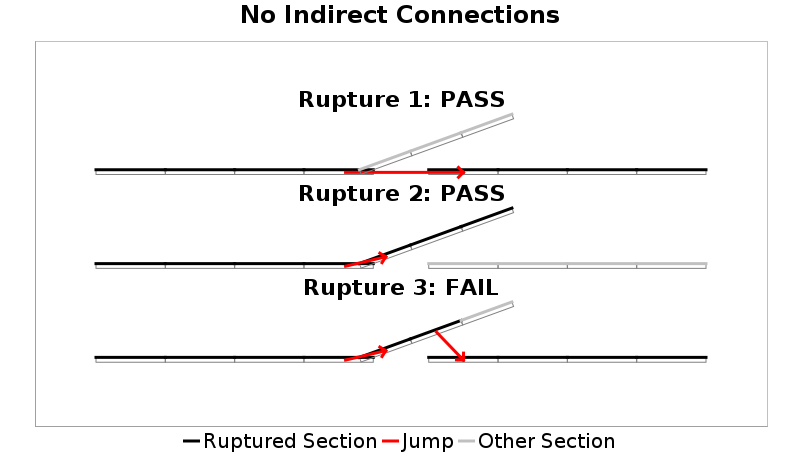
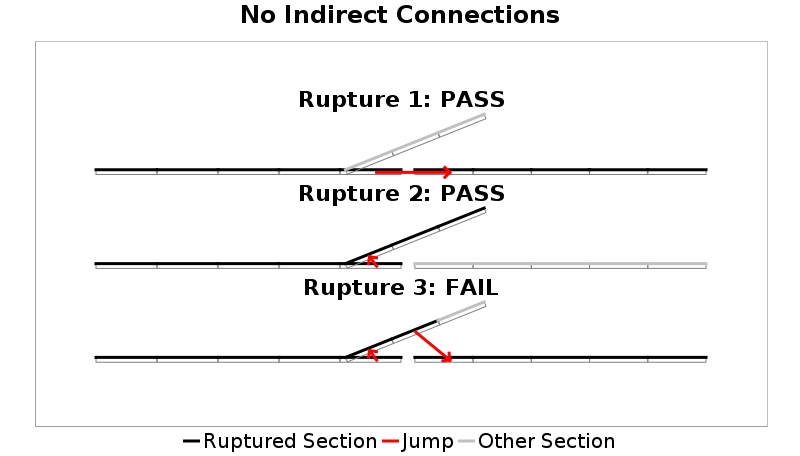
misc updates to catch up with other changes

Changed region(s): [[0.4062, 0.6447, 0.6562, 0.7982], [0.4062, 0.2456, 0.6562, 0.3991], [0.4375, 0.4605, 0.6562, 0.5833]]

diff --git a/src/org/opensha/sha/earthquake/faultSysSolution/ruptures/util/ClusterRupturePerturbationBuilder.java b/src/org/opensha/sha/earthquake/faultSysSolution/ruptures/util/ClusterRupturePerturbationBuilder.java
@@ -40,6 +40,7 @@ import org.opensha.sha.earthquake.faultSysSolution.ruptures.strategies.Exhaustiv
 import org.opensha.sha.earthquake.faultSysSolution.ruptures.strategies.PlausibleClusterConnectionStrategy;
 import org.opensha.sha.earthquake.faultSysSolution.ruptures.strategies.PlausibleClusterConnectionStrategy.*;
 import org.opensha.sha.earthquake.faultSysSolution.ruptures.strategies.SectCountAdaptiveRuptureGrowingStrategy;
+import org.opensha.sha.earthquake.faultSysSolution.ruptures.strategies.UCERF3ClusterConnectionStrategy;
 import org.opensha.sha.earthquake.faultSysSolution.ruptures.strategies.ExhaustiveBilateralRuptureGrowingStrategy.SecondaryVariations;
 import org.opensha.sha.earthquake.faultSysSolution.ruptures.strategies.SectCountAdaptiveRuptureGrowingStrategy.ConnPointCleanupFilter;
 import org.opensha.sha.earthquake.faultSysSolution.ruptures.strategies.ExhaustiveUnilateralRuptureGrowingStrategy;
@@ -55,7 +56,9 @@ import com.google.common.base.Preconditions;
 
 import scratch.UCERF3.FaultSystemRupSet;
 import scratch.UCERF3.FaultSystemSolution;
+import scratch.UCERF3.enumTreeBranches.FaultModels;
 import scratch.UCERF3.enumTreeBranches.ScalingRelationships;
+import scratch.UCERF3.inversion.coulomb.CoulombRates;
 import scratch.UCERF3.inversion.laughTest.PlausibilityResult;
 import scratch.UCERF3.utils.FaultSystemIO;
 
@@ -75,13 +78,30 @@ public class ClusterRupturePerturbationBuilder {
 //		File primaryFile = new File(rupSetsDir, "fm3_1_plausibleMulti10km_direct_cmlRake360_jumpP0.001_slipP0.05incrCapDist_cff0.75IntsPos_comb2Paths_cffFavP0.01_cffFavRatioN2P0.5_sectFractGrow0.05.zip");
 //		String primaryName = "Plausible Adaptive 5-10km (MultiEnds), Rake≤360, Jump P>0.001, Slip P>0.05 (@Incr), CFF 3/4 Ints >0, CFF Comb Paths: [Sect R>0.5, P>0.01], 5% Fract Increase";
 //		File primaryFile = new File(rupSetsDir, "fm3_1_plausibleMulti10km_adaptive5km_direct_cmlRake360_jumpP0.001_slipP0.05incrCapDist_cff0.75IntsPos_comb2Paths_cffFavP0.01_cffFavRatioN2P0.5_sectFractGrow0.05.zip");
-		String primaryName = "Plausible Adaptive 6-15km (MultiEnds), Rake≤360, Jump P>0.001, Slip P>0.05 (@Incr), CFF 3/4 Ints >0, CFF Comb Paths: [Sect R>0.5, P>0.01], 5% Fract Increase";
-		File primaryFile = new File(rupSetsDir, "fm3_1_plausibleMulti15km_adaptive6km_direct_cmlRake360_jumpP0.001_slipP0.05incrCapDist_cff0.75IntsPos_comb2Paths_cffFavP0.01_cffFavRatioN2P0.5_sectFractGrow0.05.zip");
-		RuptureGrowingStrategy primaryGrowingStrat = new SectCountAdaptiveRuptureGrowingStrategy(0.05f, true);
+//		String primaryName = "Plausible Adaptive 6-15km (MultiEnds), Rake≤360, Jump P>0.001, Slip P>0.05 (@Incr), CFF 3/4 Ints >0, CFF Comb Paths: [Sect R>0.5, P>0.01], 5% Fract Increase";
+//		File primaryFile = new File(rupSetsDir, "fm3_1_plausibleMulti15km_adaptive6km_direct_cmlRake360_jumpP0.001_slipP0.05incrCapDist_cff0.75IntsPos_comb2Paths_cffFavP0.01_cffFavRatioN2P0.5_sectFractGrow0.05.zip");
+		String primaryName = "Plausible Adaptive 6-15km (MultiEnds), Rake≤360, Jump P>0.001, Slip P>0.05 (@Incr), CFF 3/4 Ints >0, CFF Comb Paths: [Sect R>0.5, P>0.01], 10% Fract Increase";
+		File primaryFile = new File(rupSetsDir, "fm3_1_plausibleMulti15km_adaptive6km_direct_cmlRake360_jumpP0.001_slipP0.05incrCapDist_cff0.75IntsPos_comb2Paths_cffFavP0.01_cffFavRatioN2P0.5_sectFractGrow0.1.zip");
+		// MAKE SURE THESE ARE UP TO DATE ********************************************
+		float cffFractInts = 0.75f;
+		int cffRatioN = 2;
+		float cffRatioThresh = 0.5f;
+		float cffRelativeProb = 0.01f;
+		boolean favorableJumps = true;
+		float sectGrowFract = 0.1f;
+		double[] altJumpDists = { 5d, 6d, 8d, 10d, 15d, 20d };
+		double adaptiveR0 = 6d;
+		// END plausibility params
 		ScalingRelationships scale = ScalingRelationships.MEAN_UCERF3;
 		boolean rebuild = false;
 		boolean replot = false;
 		boolean skipPlausibility = true; // in plots
+		
+		RuptureGrowingStrategy primaryGrowingStrat;
+		if (sectGrowFract > 0f)
+			primaryGrowingStrat = new SectCountAdaptiveRuptureGrowingStrategy(sectGrowFract, true, 2);
+		else
+			primaryGrowingStrat = new ExhaustiveUnilateralRuptureGrowingStrategy();
 		FaultSystemRupSet rupSet = FaultSystemIO.loadRupSet(primaryFile);
 		PlausibilityConfiguration primaryConfig = rupSet.getPlausibilityConfiguration();
 		Preconditions.checkNotNull(primaryConfig);
@@ -96,14 +116,6 @@ public class ClusterRupturePerturbationBuilder {
 				AggregationMethod.FLATTEN, AggregationMethod.SUM, AggregationMethod.SUM, AggregationMethod.SUM);
 		AggregatedStiffnessCalculator fractIntsAgg = new AggregatedStiffnessCalculator(StiffnessType.CFF, stiffnessCalc, true,
 				AggregationMethod.FLATTEN, AggregationMethod.NUM_POSITIVE, AggregationMethod.SUM, AggregationMethod.NORM_BY_COUNT);
-		// MAKE SURE THESE ARE UP TO DATE ********************************************
-		float cffFractInts = 0.75f;
-		int cffRatioN = 2;
-		float cffRatioThresh = 0.5f;
-		float cffRelativeProb = 0.01f;
-		boolean favorableJumps = true;
-		double[] altJumpDists = { 5d, 6d, 8d, 10d, 15d, 20d };
-		double adaptiveR0 = 6d;
 		
 		System.out.println("Initializing alt connection strategies");
 		double origMaxJumpDist = primaryConfig.getConnectionStrategy().getMaxJumpDist();
@@ -155,13 +167,16 @@ public class ClusterRupturePerturbationBuilder {
 		// alternate growing strategies
 		List<RuptureGrowingStrategy> altGrowStrats = new ArrayList<>();
 		altGrowStrats.add(new ExhaustiveUnilateralRuptureGrowingStrategy());
-		altGrowStrats.add(new SectCountAdaptiveRuptureGrowingStrategy(0.1f, true));
+		if (sectGrowFract != 0.1f)
+			altGrowStrats.add(new SectCountAdaptiveRuptureGrowingStrategy(0.1f, true, 2));
+		if (sectGrowFract != 0.05f)
+			altGrowStrats.add(new SectCountAdaptiveRuptureGrowingStrategy(0.05f, true, 2));
 		altGrowStrats.add(new SectCountAdaptiveRuptureGrowingStrategy(
-				new ExhaustiveBilateralRuptureGrowingStrategy(SecondaryVariations.EQUAL_LEN, false), 0.05f, true));
+				new ExhaustiveBilateralRuptureGrowingStrategy(SecondaryVariations.EQUAL_LEN, false), sectGrowFract, true, 2));
 		altGrowStrats.add(new SectCountAdaptiveRuptureGrowingStrategy(
-				new ExhaustiveBilateralRuptureGrowingStrategy(SecondaryVariations.SINGLE_FULL, false), 0.05f, true));
+				new ExhaustiveBilateralRuptureGrowingStrategy(SecondaryVariations.SINGLE_FULL, false), sectGrowFract, true, 2));
 		altGrowStrats.add(new SectCountAdaptiveRuptureGrowingStrategy(
-				new ExhaustiveBilateralRuptureGrowingStrategy(SecondaryVariations.ALL, false), 0.05f, true));
+				new ExhaustiveBilateralRuptureGrowingStrategy(SecondaryVariations.ALL, false), sectGrowFract, true, 2));
 		
 		System.out.println("Primnary has "+rupSet.getNumRuptures()+" ruptures");
 		List<PlausibilityFilter> filters = primaryConfig.getFilters();
@@ -394,6 +409,21 @@ public class ClusterRupturePerturbationBuilder {
 				RupSetDiagnosticsPageGen pageGen = new RupSetDiagnosticsPageGen(rupSet, null, primaryName, u3.getRupSet(), u3, "UCERF3", plotDir);
 				pageGen.setSkipPlausibility(false);
 				pageGen.setIndexDir(indexDir);
+				
+				// now add "alt" filters to test how many UCERF3 ruptures pass our filters (even if they use different connection points
+				// or growing strategies)
+				ClusterConnectionStrategy altConnStrat = new UCERF3ClusterConnectionStrategy(
+						subSects, distAzCalc, 5d, CoulombRates.loadUCERF3CoulombRates(FaultModels.FM3_1));
+				// get the new model filters but using the UCERF3 connection strategy instead
+				String filtersJSON = primaryConfig.filtersToJSON(filters);
+				List<PlausibilityFilter> altFilters = PlausibilityConfiguration.readFiltersJSON(filtersJSON, altConnStrat, distAzCalc);
+				for (int i=altFilters.size(); --i>=0;)
+					if (altFilters.get(i) instanceof ConnPointCleanupFilter)
+						// don't include this cleanup filter which is part of the adaptive growing strategy
+						altFilters.remove(i);
+				RupSetDiagnosticsPageGen.checkLoadCoulombCache(altFilters, rupSetsDir, loadedCoulombCaches);
+				pageGen.setAltFilters(altFilters);
+				pageGen.setApplyAltToComparison(true); // we want to apply these alt filters to UCERF3, which is comparison
 				pageGen.generatePage();
 			}
 		}

diff --git a/src/org/opensha/sha/earthquake/faultSysSolution/ruptures/util/RupCartoonGenerator.java b/src/org/opensha/sha/earthquake/faultSysSolution/ruptures/util/RupCartoonGenerator.java
@@ -239,7 +239,7 @@ public class RupCartoonGenerator {
 		PlotUtils.setAxisVisible(gp, axisLabels, axisLabels);
 		PlotUtils.setGridLinesVisible(gp, axisLabels, axisLabels);
 		
-		PlotUtils.writePlots(outputDir, prefix, gp, width, -1, true, write_pdfs, false);
+		PlotUtils.writePlots(outputDir, prefix, gp, width, true, true, write_pdfs, false);
 	}
 	
 	private static PlotSpec plotConnStrat(File outputDir, String prefix, String title,
@@ -703,7 +703,7 @@ public class RupCartoonGenerator {
 			PlotUtils.setAxisVisible(gp, axisLabels, axisLabels);
 			PlotUtils.setGridLinesVisible(gp, axisLabels, axisLabels);
 			
-			int height = PlotUtils.calcHeight(gp, width);
+			int height = PlotUtils.calcHeight(gp, width, true);
 			
 			gp.getChartPanel().setSize(width, height);
 			BufferedImage img = gp.getBufferedImage(width, height);
@@ -940,7 +940,7 @@ public class RupCartoonGenerator {
 		List<PlausibilityFilter> filters = new ArrayList<>();
 		filters.add(new MinSectsPerParentFilter(2, false, false, connStrat));
 		animateRuptureBuilding(outputDir, "system_build_anim_thin", rupBuild,
-				filters, connStrat, new SectCountAdaptiveRuptureGrowingStrategy(0.1f, true), 0, true, true, false, false, 2d,
+				filters, connStrat, new SectCountAdaptiveRuptureGrowingStrategy(0.1f, true, 2), 0, true, true, false, false, 2d,
 				s1Sects);
 		animateRuptureBuilding(outputDir, "system_build_anim_no_thin", rupBuild,
 				filters, connStrat, new ExhaustiveUnilateralRuptureGrowingStrategy(), 0, true, true, false, false, 2d,
@@ -1014,7 +1014,7 @@ public class RupCartoonGenerator {
 		List<RuptureGrowingStrategy> permStrats = new ArrayList<>();
 		List<String> prefixes = new ArrayList<>();
 		
-		permStrats.add(new SectCountAdaptiveRuptureGrowingStrategy(fract, true));
+		permStrats.add(new SectCountAdaptiveRuptureGrowingStrategy(fract, true, 1));
 		prefixes.add("perm_strat_adaptive");
 		permStrats.add(new ExhaustiveUnilateralRuptureGrowingStrategy());
 		prefixes.add("perm_strat_exhaustive");
@@ -1156,10 +1156,10 @@ public class RupCartoonGenerator {
 		permStrats.add(new ExhaustiveBilateralRuptureGrowingStrategy(SecondaryVariations.EQUAL_LEN, false));
 		prefixes.add("perm_strat_bilateral_equal_len");
 		permStrats.add(new SectCountAdaptiveRuptureGrowingStrategy(
-				new ExhaustiveBilateralRuptureGrowingStrategy(SecondaryVariations.SINGLE_FULL, false), fract, true));
+				new ExhaustiveBilateralRuptureGrowingStrategy(SecondaryVariations.SINGLE_FULL, false), fract, true, 1));
 		prefixes.add("perm_strat_bilateral_adaptive_single_full");
 		permStrats.add(new SectCountAdaptiveRuptureGrowingStrategy(
-				new ExhaustiveBilateralRuptureGrowingStrategy(SecondaryVariations.EQUAL_LEN, false), fract, true));
+				new ExhaustiveBilateralRuptureGrowingStrategy(SecondaryVariations.EQUAL_LEN, false), fract, true, 1));
 		prefixes.add("perm_strat_bilateral_adaptive_equal_len");
 		
 		PlotCurveCharacterstics rupChar = new PlotCurveCharacterstics(PlotLineType.SOLID, 3f, Color.BLACK);
@@ -2287,11 +2287,11 @@ public class RupCartoonGenerator {
 		SubSectBuilder rupBuild = new SubSectBuilder(fractDDW);
 		
 		rupBuild.addFault(buildSect(parentID++, dip, upperDepth, lowerDepth,
-				loc(0d, 0d), loc(20d, 0d)));
+				loc(0d, 0d), loc(22d, 0d)));
 		rupBuild.addFault(buildSect(parentID++, dip, upperDepth, lowerDepth,
-				loc(24d, 0d), loc(44d, 0d)));
+				loc(23d, 0d), loc(44d, 0d)));
 		rupBuild.addFault(buildSect(parentID++, dip, upperDepth, lowerDepth,
-				loc(19d, 0d), loc(30d, 4d)));
+				loc(18d, 0d), loc(28d, 4d)));
 		
 		List<? extends FaultSection> subSects = rupBuild.subSectsList;
 		SectionDistanceAzimuthCalculator distAzCalc = new SectionDistanceAzimuthCalculator(subSects);

diff --git a/src/org/opensha/sha/earthquake/faultSysSolution/ruptures/util/RupSetFilterComparePageGen.java b/src/org/opensha/sha/earthquake/faultSysSolution/ruptures/util/RupSetFilterComparePageGen.java
@@ -86,9 +86,12 @@ public class RupSetFilterComparePageGen {
 //		File inputFile = new File(rupSetsDir, "rsqsim_4983_stitched_m6.5_skip65000_sectArea0.5.zip");
 ////		File inputFile = new File(rupSetsDir, "rsqsim_4983_stitched_m6.5_skip65000_sectArea0.5_unique.zip");
 //		File distAzCache = new File(rupSetsDir, "fm3_1_dist_az_cache.csv");
-		String inputName = "RSQSim 5133, SectArea=0.5";
-		File inputFile = new File(rupSetsDir, "rsqsim_5133_m6_skip50000_sectArea0.5.zip");
-		File distAzCache = null;
+//		String inputName = "RSQSim 5133, SectArea=0.5";
+//		File inputFile = new File(rupSetsDir, "rsqsim_5133_m6_skip50000_sectArea0.5.zip");
+//		File distAzCache = null;
+		String inputName = "RSQSim 5212, SectArea=0.5";
+		File inputFile = new File(rupSetsDir, "rsqsim_5212_m6.5_skip50000_sectArea0.5.zip");
+		File distAzCache = new File(rupSetsDir, "fm3_1_dist_az_cache.csv");
 		
 		File altFiltersFile = new File(rupSetsDir, "u3_az_cff_cmls.json");
 		String altName = "UCERF3";

diff --git a/src/org/opensha/sha/earthquake/faultSysSolution/ruptures/util/RupSetMapMaker.java b/src/org/opensha/sha/earthquake/faultSysSolution/ruptures/util/RupSetMapMaker.java
@@ -444,7 +444,7 @@ public class RupSetMapMaker {
 		PlotUtils.setXTick(gp, tick);
 		PlotUtils.setYTick(gp, tick);
 		
-		PlotUtils.writePlots(outputDir, prefix, gp, width, -1, true, writePDFs, false);
+		PlotUtils.writePlots(outputDir, prefix, gp, width, true, true, writePDFs, false);
 	}
 
 }
